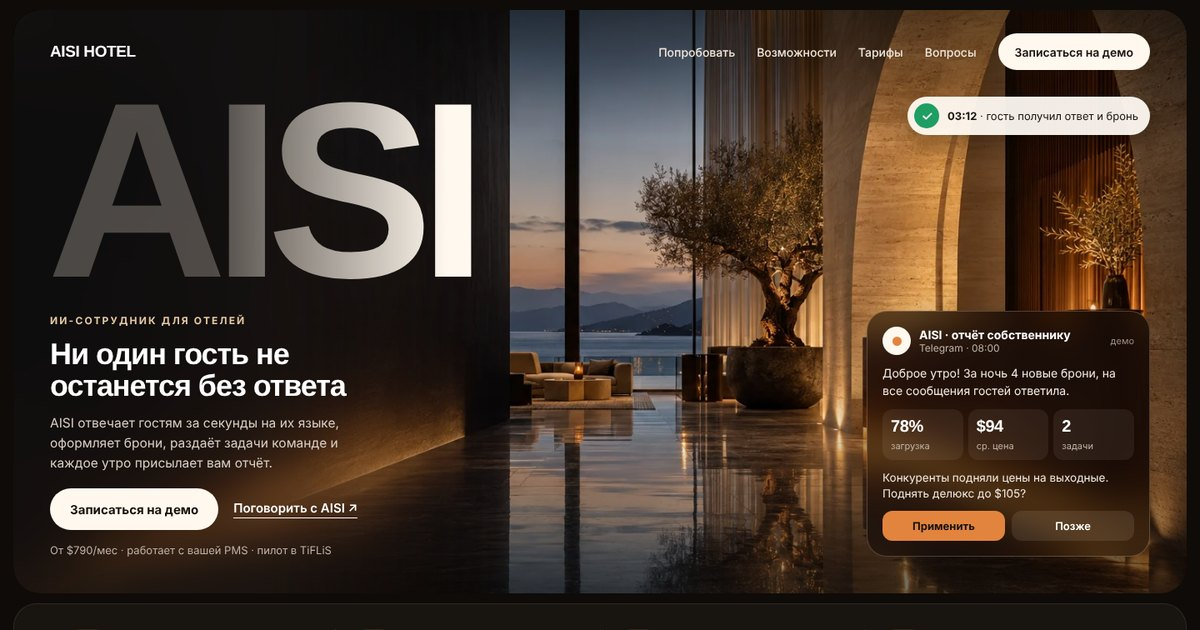
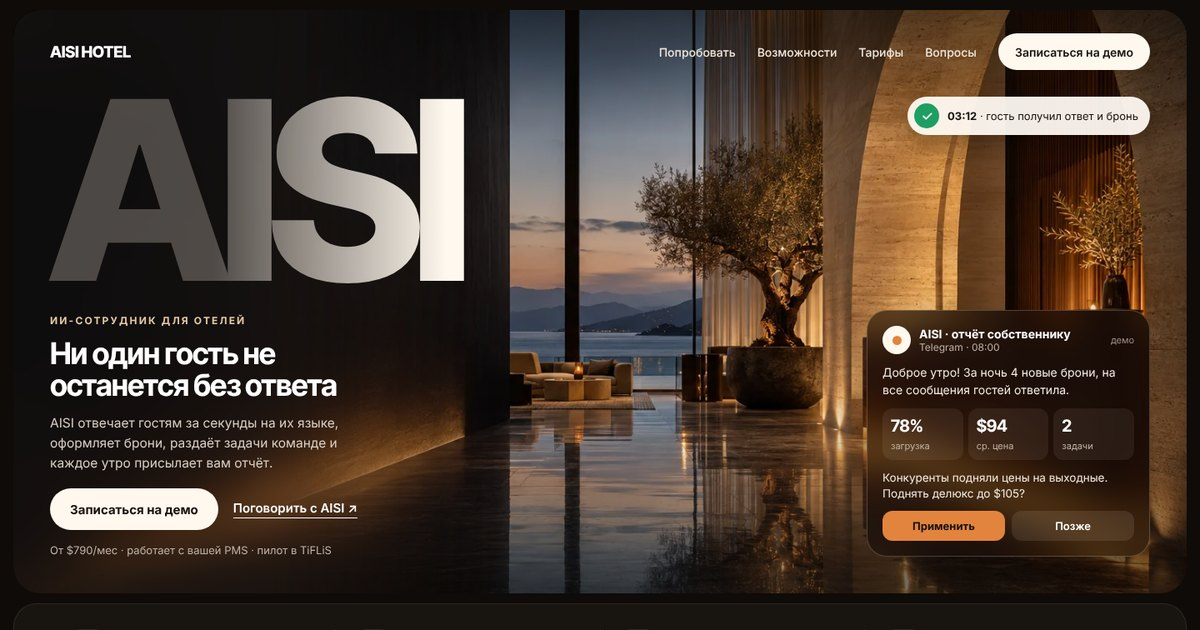
AISI HOTEL: живая демонстрация одним блоком на экран; слово AISI не заходит на окно на узких экранах
Claude-Session: https://claude.ai/code/session_01Mkf1epMJzp2yDuo3X1UjtA

diff --git a/hotel/index.html b/hotel/index.html
@@ -51,7 +51,13 @@ a:hover{opacity:.85}
 .price-grid{display:grid;grid-template-columns:repeat(4,minmax(0,1fr));gap:16px}
 .demo-grid{display:grid;grid-template-columns:minmax(0,1fr) minmax(0,1fr);gap:12px}
 input[type=range]{accent-color:#E2843E;width:100%}
-.live-grid{display:grid;grid-template-columns:minmax(0,0.92fr) minmax(0,1.08fr);gap:16px}
+.live-grid{display:grid;grid-template-columns:minmax(0,0.92fr) minmax(0,1.08fr);gap:12px}
+.live-card{padding:22px;border-radius:32px}
+.live-top{display:flex;justify-content:space-between;align-items:flex-end;gap:16px 32px;flex-wrap:wrap;margin-bottom:18px}
+.live-top > :first-child{flex:1 1 380px}
+.live-title{font-size:clamp(28px,2.5vw,36px);max-width:760px}
+.live-lead{margin:10px 0 0;font-size:15px;line-height:1.5;color:#BFB3A6}
+.chat-box,.board-box{height:clamp(380px,calc(100vh - 230px),500px)}
 .chat-scroll,.board-scroll{scrollbar-width:thin}
 .tdot{display:inline-block;width:7px;height:7px;border-radius:50%;background:#9C9084;animation:tblink 1.2s infinite ease-in-out}
 .tdot:nth-child(2){animation-delay:.18s}.tdot:nth-child(3){animation-delay:.36s}
@@ -61,11 +67,11 @@ input[type=range]{accent-color:#E2843E;width:100%}
 button:disabled{opacity:.45;cursor:default}
 .fld{display:flex;flex-direction:column;gap:6px;font-size:14px;font-weight:600;color:#16110C}
 .fld input{min-height:52px;padding:0 18px;border-radius:16px;border:1px solid #D9CCBB;background:#FFFDF9;font:400 16px Inter,sans-serif;color:#16110C}
-.hx{position:relative;height:700px;overflow:hidden;border-radius:32px;color:#FFFFFF;background:#0B0907;container-type:inline-size;--pw:450px}
+.hx{position:relative;height:700px;overflow:hidden;border-radius:32px;color:#FFFFFF;background:#0B0907;container-type:inline-size;--fs:min(300px, calc(26cqw - 50px));--pw:calc(var(--fs) * 1.5)}
 .hx-photo{position:absolute;inset:0;width:100%;height:100%;object-fit:cover;object-position:60% 58%}
 .hx-shade{position:absolute;inset:0;background:linear-gradient(180deg,rgba(8,6,5,.55) 0%,rgba(8,6,5,0) 22%),linear-gradient(0deg,rgba(8,6,5,.5) 0%,rgba(8,6,5,0) 30%)}
 .hx-panel{position:absolute;left:0;top:0;bottom:0;width:calc(var(--pw) + 120px);background:rgba(255,244,230,.05);backdrop-filter:blur(24px) saturate(125%);-webkit-backdrop-filter:blur(24px) saturate(125%);-webkit-mask-image:linear-gradient(90deg,#000 0,#000 calc(100% - 260px),transparent 100%);mask-image:linear-gradient(90deg,#000 0,#000 calc(100% - 260px),transparent 100%)}
-.hx-word{position:absolute;left:0;right:0;top:0;margin:0;padding:96px 0 0 40px;box-sizing:border-box;font-family:'Inter Tight',sans-serif;font-weight:800;font-size:clamp(250px,27cqw,300px);line-height:.8;letter-spacing:-0.06em;white-space:nowrap;pointer-events:none;background:linear-gradient(90deg,rgba(255,244,230,.26) 0,rgba(255,244,230,.26) calc(var(--pw) - 210px),#FFF8EE calc(var(--pw) + 70px),#FFF8EE 100%);-webkit-background-clip:text;background-clip:text;color:transparent}
+.hx-word{position:absolute;left:0;right:0;top:0;margin:0;padding:calc(96px + (300px - var(--fs)) * .8) 0 0 40px;box-sizing:border-box;font-family:'Inter Tight',sans-serif;font-weight:800;font-size:var(--fs);line-height:.8;letter-spacing:-0.06em;white-space:nowrap;pointer-events:none;background:linear-gradient(90deg,rgba(255,244,230,.26) 0,rgba(255,244,230,.26) calc(var(--pw) - 210px),#FFF8EE calc(var(--pw) + 70px),#FFF8EE 100%);-webkit-background-clip:text;background-clip:text;color:transparent}
 .hx-top{position:absolute;left:44px;right:44px;top:28px;display:flex;align-items:center;justify-content:space-between;gap:16px;z-index:5}
 .hx-offer{position:absolute;left:44px;bottom:44px;width:370px;display:flex;flex-direction:column;gap:14px;z-index:5}
 .hx-card{position:absolute;right:44px;bottom:44px;width:340px;box-sizing:border-box;border-radius:24px;padding:18px;background:rgba(16,12,9,.62);border:1px solid rgba(255,236,212,.22);backdrop-filter:blur(20px) saturate(130%);-webkit-backdrop-filter:blur(20px) saturate(130%);box-shadow:0 30px 70px rgba(0,0,0,.45);z-index:5}
@@ -130,6 +136,9 @@ footer.cd{padding:28px 22px 0 !important}
 /* live demo */
 .role-sw{display:flex !important;width:100%}
 .role-sw button{flex:1;padding:0 12px !important}
+.live-card{padding:0;background:none;border:0;border-radius:0}
+.live-top{margin-bottom:16px}
+.live-title{font-size:30px}
 .chat-box{height:500px !important;border-radius:24px !important}
 .chat-head{padding:14px !important;gap:10px !important}
 .reset-btn{width:40px;padding:0 !important}
@@ -280,88 +289,89 @@ footer nav{gap:4px 20px !important}
 
 <!-- ================= LIVE: chat + notification board ================= -->
 <section id="live" class="w sec">
-  <div class="head-row" style="margin-bottom: 28px">
-    <div>
-      <p class="ey">Живая демонстрация</p>
-      <h2 class="h2" style="max-width: 780px">Напишите AISI как гость — и смотрите, как отель реагирует</h2>
+ <div class="cd live-card">
+  <div class="live-top">
+    <div style="min-width: 0">
+      <p class="ey" style="margin-bottom: 10px">Живая демонстрация</p>
+      <h2 class="h2 live-title">Напишите AISI как гость — и смотрите, как отель реагирует</h2>
+      <p class="live-lead"><span class="hide-sm">Слева разговор, справа</span><span class="show-sm-i">Сверху разговор, ниже</span> — доска уведомлений для команды и собственника.</p>
     </div>
-    <p class="lead" style="max-width: 380px"><span class="hide-sm">Слева разговор, справа доска</span><span class="show-sm-i">Сверху разговор, ниже доска</span> уведомлений, которую видят администратор, службы и собственник. Задачи можно брать и закрывать.</p>
-  </div>
 
-  <div role="group" aria-label="Чьими глазами смотреть" class="cd role-sw" style="display: inline-flex; gap: 4px; padding: 5px; border-radius: 999px; margin-bottom: 16px">
+  <div role="group" aria-label="Чьими глазами смотреть" class="cd role-sw" style="display: inline-flex; flex: none; gap: 4px; padding: 5px; border-radius: 999px">
     <button type="button" @click="asGuest" :aria-pressed="rolePressed.guest" :style="`min-height: 44px; padding: 0 20px; border-radius: 999px; border: 0; background: ${roleBg.guest}; color: ${roleFg.guest}; font: 600 15px Inter, sans-serif; cursor: pointer`">Я гость<span class="hide-sm">, бронирую номер</span></button>
     <button type="button" @click="asOwner" :aria-pressed="rolePressed.owner" :style="`min-height: 44px; padding: 0 20px; border-radius: 999px; border: 0; background: ${roleBg.owner}; color: ${roleFg.owner}; font: 600 15px Inter, sans-serif; cursor: pointer`">Я владелец<span class="hide-sm"> отеля</span></button>
+  </div>
   </div>
 
   <div class="live-grid">
     <!-- chat -->
-    <div class="chat-box" style="background: #F6F0E7; color: #16110C; border-radius: 28px; height: 560px; display: flex; flex-direction: column; overflow: hidden">
-      <div class="chat-head" style="display: flex; align-items: center; gap: 12px; padding: 18px 20px; border-bottom: 1px solid #E4D8C8">
-        <span aria-hidden="true" style="width: 42px; height: 42px; border-radius: 50%; background: #16110C; display: grid; place-items: center; flex: none"><span :style="`width: 14px; height: 14px; border-radius: 50%; background: ${accent}`"></span></span>
+    <div class="chat-box" style="background: #F6F0E7; color: #16110C; border-radius: 24px; display: flex; flex-direction: column; overflow: hidden">
+      <div class="chat-head" style="display: flex; align-items: center; gap: 12px; padding: 12px 16px; border-bottom: 1px solid #E4D8C8">
+        <span aria-hidden="true" style="width: 36px; height: 36px; border-radius: 50%; background: #16110C; display: grid; place-items: center; flex: none"><span :style="`width: 12px; height: 12px; border-radius: 50%; background: ${accent}`"></span></span>
         <div style="flex: 1; min-width: 0">
-          <p style="margin: 0; font-weight: 700; font-size: 16px">{{chatTitle}}</p>
+          <p style="margin: 0; font-weight: 700; font-size: 15px">{{chatTitle}}</p>
           <p :style="`margin: 0; font-size: 13px; color: ${statusColor}`">{{statusText}}</p>
         </div>
-        <button type="button" @click="reset" aria-label="Начать заново" class="reset-btn" style="min-height: 40px; padding: 0 14px; border-radius: 999px; border: 1px solid #D9CCBB; background: #FFFDF9; font: 600 13px Inter, sans-serif; color: #16110C; cursor: pointer; display: inline-flex; align-items: center; justify-content: center"><svg class="show-sm" width="16" height="16" viewBox="0 0 24 24" fill="none" stroke="currentColor" stroke-width="2.2" stroke-linecap="round" stroke-linejoin="round" aria-hidden="true"><path d="M3 12a9 9 0 1 0 3-6.7L3 8"/><path d="M3 3v5h5"/></svg><span class="hide-sm">Начать заново</span></button>
+        <button type="button" @click="reset" aria-label="Начать заново" class="reset-btn" style="min-height: 36px; padding: 0 14px; border-radius: 999px; border: 1px solid #D9CCBB; background: #FFFDF9; font: 600 13px Inter, sans-serif; color: #16110C; cursor: pointer; display: inline-flex; align-items: center; justify-content: center"><svg class="show-sm" width="16" height="16" viewBox="0 0 24 24" fill="none" stroke="currentColor" stroke-width="2.2" stroke-linecap="round" stroke-linejoin="round" aria-hidden="true"><path d="M3 12a9 9 0 1 0 3-6.7L3 8"/><path d="M3 3v5h5"/></svg><span class="hide-sm">Начать заново</span></button>
       </div>
 
-      <div class="chat-scroll" aria-live="polite" style="flex: 1; min-height: 0; overflow-y: auto; display: flex; flex-direction: column-reverse; gap: 8px; padding: 18px 18px 12px">
+      <div class="chat-scroll" aria-live="polite" style="flex: 1; min-height: 0; overflow-y: auto; display: flex; flex-direction: column-reverse; gap: 8px; padding: 14px 16px 10px">
         <template v-if="typing">
           <div style="align-self: flex-start; display: inline-flex; gap: 5px; align-items: center; padding: 13px 16px; border-radius: 18px 18px 18px 4px; background: #FFFFFF" aria-label="AISI печатает"><span class="tdot"></span><span class="tdot"></span><span class="tdot"></span></div>
         </template>
         <template v-for="(m, $index) in msgsRev">
-          <p :style="`margin: 0; max-width: 84%; align-self: ${m.align}; background: ${m.bg}; border-radius: ${m.radius}; padding: 10px 14px; font-size: 15px; line-height: 1.45; color: #16110C`">{{m.text}}</p>
+          <p :style="`margin: 0; max-width: 84%; align-self: ${m.align}; background: ${m.bg}; border-radius: ${m.radius}; padding: 9px 13px; font-size: 14.5px; line-height: 1.45; color: #16110C`">{{m.text}}</p>
         </template>
       </div>
 
-      <div style="padding: 12px 16px 16px; border-top: 1px solid #E4D8C8; display: flex; flex-direction: column; gap: 10px">
+      <div style="padding: 10px 14px 14px; border-top: 1px solid #E4D8C8; display: flex; flex-direction: column; gap: 8px">
         <div class="chips-row" style="display: flex; gap: 6px; flex-wrap: wrap">
           <template v-for="(c, $index) in chips">
-            <button type="button" @click="c.pick" :disabled="typing" style="min-height: 38px; padding: 0 14px; border-radius: 999px; border: 1px solid #D9CCBB; background: #FFFDF9; font: 500 14px Inter, sans-serif; color: #16110C; cursor: pointer">{{c.label}}</button>
+            <button type="button" @click="c.pick" :disabled="typing" style="min-height: 34px; padding: 0 12px; border-radius: 999px; border: 1px solid #D9CCBB; background: #FFFDF9; font: 500 13.5px Inter, sans-serif; color: #16110C; cursor: pointer">{{c.label}}</button>
           </template>
         </div>
         <form @submit="onSubmit" style="display: flex; gap: 8px; align-items: center">
           <label for="live-msg" style="position: absolute; width: 1px; height: 1px; overflow: hidden; clip: rect(0 0 0 0)">Сообщение для AISI</label>
-          <input id="live-msg" class="chat-in" type="text" :value="draft" @input="onDraft" :placeholder="placeholder" autocomplete="off" style="flex: 1; min-width: 0; min-height: 48px; padding: 0 18px; border-radius: 999px; border: 1px solid #D9CCBB; background: #FFFDF9; font: 400 15px Inter, sans-serif; color: #16110C">
-          <button type="submit" aria-label="Отправить" :disabled="typing" style="flex: none; width: 48px; height: 48px; border-radius: 50%; border: 0; background: #16110C; color: #FFF8EE; display: grid; place-items: center; cursor: pointer"><svg width="18" height="18" viewBox="0 0 24 24" fill="none" stroke="currentColor" stroke-width="2.2" stroke-linecap="round" stroke-linejoin="round" aria-hidden="true"><path d="M5 12h14M13 6l6 6-6 6"/></svg></button>
+          <input id="live-msg" class="chat-in" type="text" :value="draft" @input="onDraft" :placeholder="placeholder" autocomplete="off" style="flex: 1; min-width: 0; min-height: 44px; padding: 0 16px; border-radius: 999px; border: 1px solid #D9CCBB; background: #FFFDF9; font: 400 15px Inter, sans-serif; color: #16110C">
+          <button type="submit" aria-label="Отправить" :disabled="typing" style="flex: none; width: 44px; height: 44px; border-radius: 50%; border: 0; background: #16110C; color: #FFF8EE; display: grid; place-items: center; cursor: pointer"><svg width="18" height="18" viewBox="0 0 24 24" fill="none" stroke="currentColor" stroke-width="2.2" stroke-linecap="round" stroke-linejoin="round" aria-hidden="true"><path d="M5 12h14M13 6l6 6-6 6"/></svg></button>
         </form>
       </div>
     </div>
 
     <!-- board -->
-    <div class="cd2 board-box" style="border-radius: 28px; height: 560px; display: flex; flex-direction: column; overflow: hidden; color: #FFF8EE">
-      <div class="board-pad" style="padding: 20px 22px 16px; display: flex; flex-direction: column; gap: 16px; border-bottom: 1px solid rgba(255,236,212,0.10)">
+    <div class="cd2 board-box" style="border-radius: 24px; display: flex; flex-direction: column; overflow: hidden; color: #FFF8EE">
+      <div class="board-pad" style="padding: 14px 18px 12px; display: flex; flex-direction: column; gap: 12px; border-bottom: 1px solid rgba(255,236,212,0.10)">
         <div class="board-head" style="display: flex; justify-content: space-between; align-items: center; gap: 6px 12px">
-          <p class="board-title" style="margin: 0; font-family: 'Inter Tight', sans-serif; font-weight: 700; font-size: 20px; letter-spacing: -0.02em">Дашборд отеля · уведомления</p>
+          <p class="board-title" style="margin: 0; font-family: 'Inter Tight', sans-serif; font-weight: 700; font-size: 18px; letter-spacing: -0.02em">Дашборд отеля · уведомления</p>
           <span style="display: inline-flex; align-items: center; gap: 8px; font-size: 12px; font-weight: 600; color: #57D79A"><span style="width: 8px; height: 8px; border-radius: 50%; background: #57D79A"></span>в реальном времени</span>
         </div>
         <div style="display: grid; grid-template-columns: repeat(3, minmax(0, 1fr)); gap: 8px">
           <template v-for="(s, $index) in stats">
-            <div style="background: rgba(255,240,220,0.06); border-radius: 16px; padding: 12px 14px">
-              <p :style="`margin: 0; font-family: 'Inter Tight', sans-serif; font-weight: 700; font-size: 28px; color: ${s.color}`">{{s.value}}</p>
+            <div style="background: rgba(255,240,220,0.06); border-radius: 14px; padding: 9px 12px">
+              <p :style="`margin: 0; font-family: 'Inter Tight', sans-serif; font-weight: 700; font-size: 24px; line-height: 1.15; color: ${s.color}`">{{s.value}}</p>
               <p style="margin: 2px 0 0; font-size: 12px; color: #A89B8C">{{s.label}}</p>
             </div>
           </template>
         </div>
       </div>
 
-      <div class="board-scroll board-pad" aria-live="polite" style="flex: 1; min-height: 0; overflow-y: auto; padding: 16px 22px; display: flex; flex-direction: column; gap: 10px">
+      <div class="board-scroll board-pad" aria-live="polite" style="flex: 1; min-height: 0; overflow-y: auto; padding: 12px 18px; display: flex; flex-direction: column; gap: 8px">
         <template v-if="noNotes">
           <div style="margin: auto 0; text-align: center; padding: 24px; color: #A89B8C; font-size: 15px; line-height: 1.5">Пока тихо.<br>Выберите вопрос <span class="hide-sm">слева</span><span class="show-sm-i">выше</span> — события отеля появятся здесь.</div>
         </template>
         <template v-for="(n, $index) in notes">
-          <div class="note-in" :style="`background: rgba(255,240,220,0.05); border-radius: 18px; padding: 14px 16px; border: 1px solid ${n.border}; display: flex; flex-direction: column; gap: 8px`">
+          <div class="note-in" :style="`background: rgba(255,240,220,0.05); border-radius: 16px; padding: 12px 14px; border: 1px solid ${n.border}; display: flex; flex-direction: column; gap: 6px`">
             <div style="display: flex; justify-content: space-between; align-items: center; gap: 10px">
               <span :style="`font-size: 12px; font-weight: 700; padding: 4px 10px; border-radius: 999px; background: ${n.bg}; color: ${n.fg}`">{{n.role}}</span>
               <span style="font-family: 'JetBrains Mono', monospace; font-size: 12px; color: #A89B8C">{{n.time}}</span>
             </div>
-            <p style="margin: 0; font-weight: 600; font-size: 16px">{{n.title}}</p>
+            <p style="margin: 0; font-weight: 600; font-size: 15px">{{n.title}}</p>
             <p style="margin: 0; font-size: 14px; line-height: 1.45; color: #CFC4B7">{{n.detail}}</p>
             <template v-if="n.isTask">
               <div style="display: flex; justify-content: space-between; align-items: center; gap: 10px; margin-top: 2px">
                 <span :style="`font-size: 13px; font-weight: 600; color: ${n.statusColor}`">{{n.statusLabel}}</span>
                 <template v-if="n.hasAction">
-                  <button type="button" @click="n.act" :style="`min-height: 40px; padding: 0 16px; border-radius: 999px; border: 0; background: ${n.actBg}; color: #16110C; font: 700 14px Inter, sans-serif; cursor: pointer`">{{n.actLabel}}</button>
+                  <button type="button" @click="n.act" :style="`min-height: 36px; padding: 0 14px; border-radius: 999px; border: 0; background: ${n.actBg}; color: #16110C; font: 700 14px Inter, sans-serif; cursor: pointer`">{{n.actLabel}}</button>
                 </template>
               </div>
             </template>
@@ -369,11 +379,12 @@ footer nav{gap:4px 20px !important}
         </template>
       </div>
 
-      <div class="board-pad" style="padding: 14px 22px 18px; border-top: 1px solid rgba(255,236,212,0.10)">
-        <button type="button" @click="brief" class="btn-iv" style="width: 100%; min-height: 48px">Отправить брифинг собственнику</button>
+      <div class="board-pad" style="padding: 10px 18px 14px; border-top: 1px solid rgba(255,236,212,0.10)">
+        <button type="button" @click="brief" class="btn-iv" style="width: 100%; min-height: 44px">Отправить брифинг собственнику</button>
       </div>
     </div>
   </div>
+ </div>
   <p style="margin: 14px 0 0; font-size: 13px; color: #A89B8C">Демонстрация на заготовленных сценариях: номер, цена и время условные. Настоящая AISI отвечает по данным вашего отеля.</p>
 </section>
 
